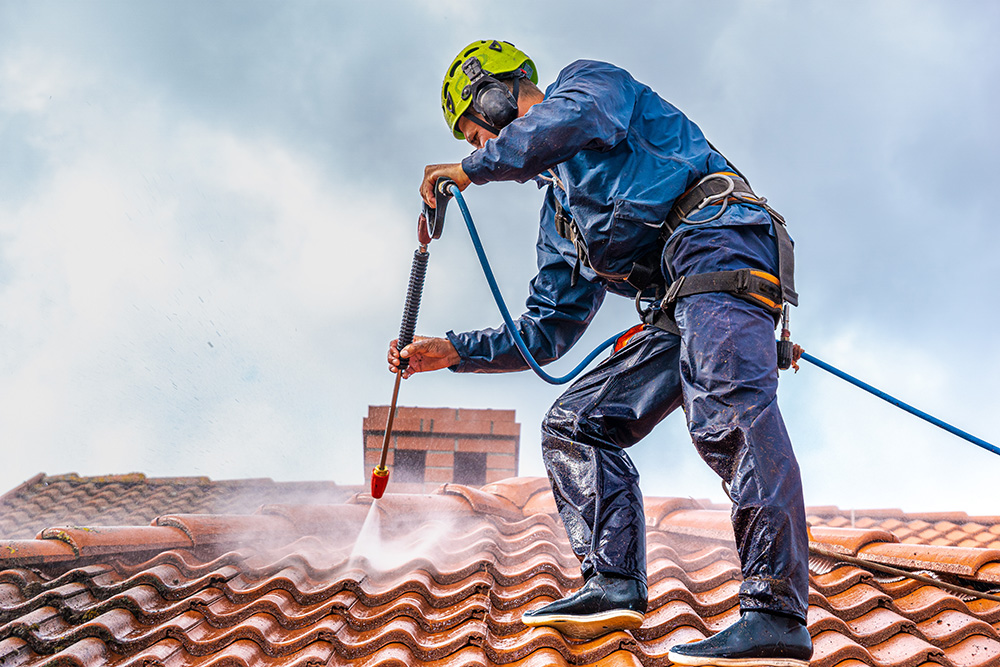
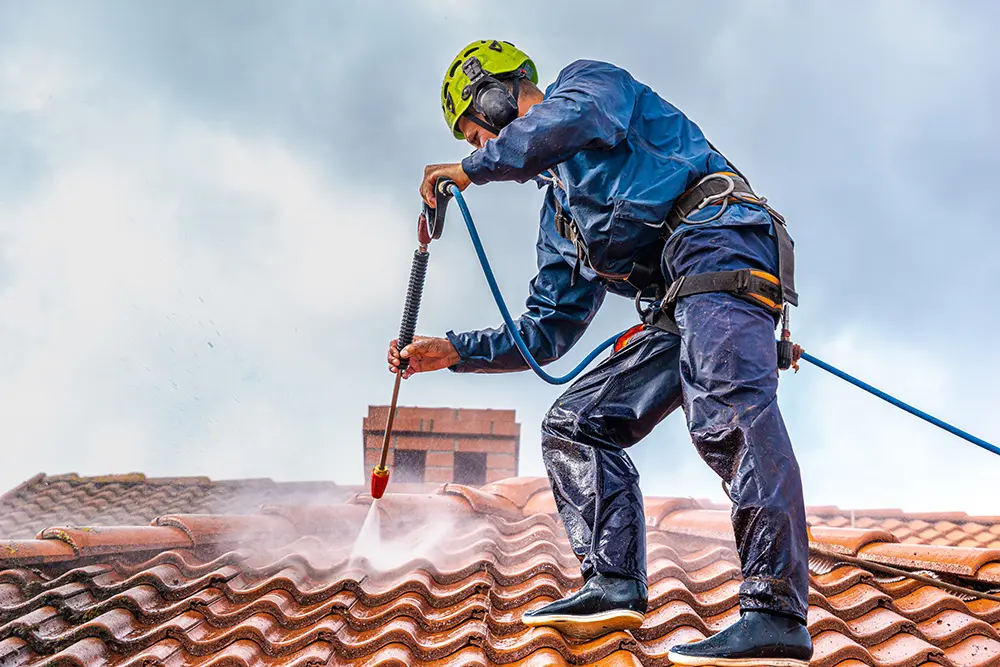
perf changes
changed extensions to webp
modified small code chunks

diff --git a/src/components/Hero.tsx b/src/components/Hero.tsx
@@ -4,14 +4,14 @@ import { ArrowRight } from "lucide-react";
 export default function Hero() {
   return (
     <div className="relative h-screen flex items-center justify-center overflow-hidden">
-      {/* Image de fond animée */}
+      {/* Image de fond avec zoom lent */}
       <img
         src="/hero.webp"
-        alt="Service de lavage à pression"
+        alt="Nettoyage de toiture"
         className="absolute inset-0 w-full h-full object-cover scale-100 animate-slow-zoom"
       />
 
-      {/* Overlay en dégradé */}
+      {/* Overlay dégradé */}
       <motion.div
         initial={{ opacity: 0 }}
         animate={{ opacity: 1 }}
@@ -19,26 +19,22 @@ export default function Hero() {
         className="absolute inset-0 bg-gradient-to-b from-black/60 via-black/40 to-black/30"
       />
 
-      {/* Contenu texte */}
-      <motion.div
-        initial={{ opacity: 0, y: 20 }}
-        animate={{ opacity: 1, y: 0 }}
-        transition={{ duration: 1.2 }}
-        className="relative z-10 text-center text-white max-w-4xl px-4"
-      >
+      {/* Contenu */}
+      <div className="relative z-10 text-center text-white max-w-4xl px-4">
         <motion.div
           initial={{ opacity: 0, y: 20 }}
           animate={{ opacity: 1, y: 0 }}
-          transition={{ delay: 0.2 }}
+          transition={{ duration: 0.6 }}
           className="text-sm font-semibold text-blue-300 mb-3 tracking-wider"
         >
           SERVICE PROFESSIONNEL DE NETTOYAGE À HAUTE PRESSION
         </motion.div>
 
+        {/* ✅ Texte LCP SANS delay */}
         <motion.h2
-          initial={{ opacity: 0, y: 20 }}
+          initial={{ opacity: 0, y: 10 }}
           animate={{ opacity: 1, y: 0 }}
-          transition={{ delay: 0.4 }}
+          transition={{ duration: 0.5 }} // sans delay !
           className="text-4xl md:text-6xl font-bold text-white mb-6 leading-tight drop-shadow-md"
         >
           Redonnez vie à vos surfaces{" "}
@@ -48,7 +44,7 @@ export default function Hero() {
         <motion.p
           initial={{ opacity: 0, y: 20 }}
           animate={{ opacity: 1, y: 0 }}
-          transition={{ delay: 0.6 }}
+          transition={{ delay: 0.4, duration: 0.5 }}
           className="text-xl text-gray-200 mb-8 max-w-2xl mx-auto"
         >
           Un nettoyage puissant et précis pour transformer l'apparence de votre
@@ -58,7 +54,7 @@ export default function Hero() {
         <motion.div
           initial={{ opacity: 0, y: 20 }}
           animate={{ opacity: 1, y: 0 }}
-          transition={{ delay: 0.8 }}
+          transition={{ delay: 0.6, duration: 0.5 }}
           className="flex flex-col sm:flex-row gap-4 justify-center"
         >
           <a
@@ -87,7 +83,7 @@ export default function Hero() {
             Nos services
           </a>
         </motion.div>
-      </motion.div>
+      </div>
     </div>
   );
 }

diff --git a/src/App.tsx b/src/App.tsx
@@ -170,27 +170,27 @@ function App() {
       description: "Application de scellant sur une toiture métallique.",
     },
     {
-      image: "/gallerie2.jpg",
+      image: "/gallerie2.webp",
       title: "Toiture Commerciale",
       description: "Produit final de décapage de toiture métallique.",
     },
     {
-      image: "/gallerie3.jpg",
+      image: "/gallerie3.webp",
       title: "Toiture Métallique",
       description: "Avant/Après de notre service de décapage.",
     },
     {
-      image: "/gallerie4.jpg",
+      image: "/gallerie4.webp",
       title: "Toiture Grande Surface",
       description: "Nettoyage en profondeur d'une usine.",
     },
     {
-      image: "/gallerie5.jpg",
+      image: "/gallerie5.webp",
       title: "Toiture de Grange",
       description: "Avant/Après de notre service de décapage.",
     },
     {
-      image: "/gallerie6.jpg",
+      image: "/gallerie6.webp",
       title: "Toiture Résidentielle",
       description: "Nettoyage et entretien de toiture.",
     },
@@ -369,7 +369,7 @@ function App() {
               <div className="relative">
                 <div className="absolute -top-6 -left-6 w-24 h-24 bg-blue-100 rounded-lg z-0"></div>
                 <img
-                  src="/notreequipe.jpg"
+                  src="/notreequipe.webp" // Changement de l'extension
                   alt="Notre équipe"
                   className="rounded-lg shadow-xl relative z-10 w-full h-auto hover:shadow-2xl transition-shadow duration-300"
                   width="600"

diff --git a/index.html b/index.html
@@ -71,13 +71,22 @@
   </head>
 
   <!-- Google tag (gtag.js) -->
-  <script async src="https://www.googletagmanager.com/gtag/js?id=G-PNQWFH7M09"></script>
   <script>
-    window.dataLayer = window.dataLayer || [];
-    function gtag(){dataLayer.push(arguments);}
-    gtag('js', new Date());
-    gtag('config', 'G-PNQWFH7M09');
+    window.addEventListener('scroll', function loadGTMOnce() {
+      const script = document.createElement('script');
+      script.src = 'https://www.googletagmanager.com/gtag/js?id=G-PNQWFH7M09';
+      script.async = true;
+      document.head.appendChild(script);
+  
+      window.dataLayer = window.dataLayer || [];
+      function gtag() { dataLayer.push(arguments); }
+      gtag('js', new Date());
+      gtag('config', 'G-PNQWFH7M09');
+  
+      window.removeEventListener('scroll', loadGTMOnce);
+    }, { once: true });
   </script>
+  
 
   <body>
     <div id="root"></div>
